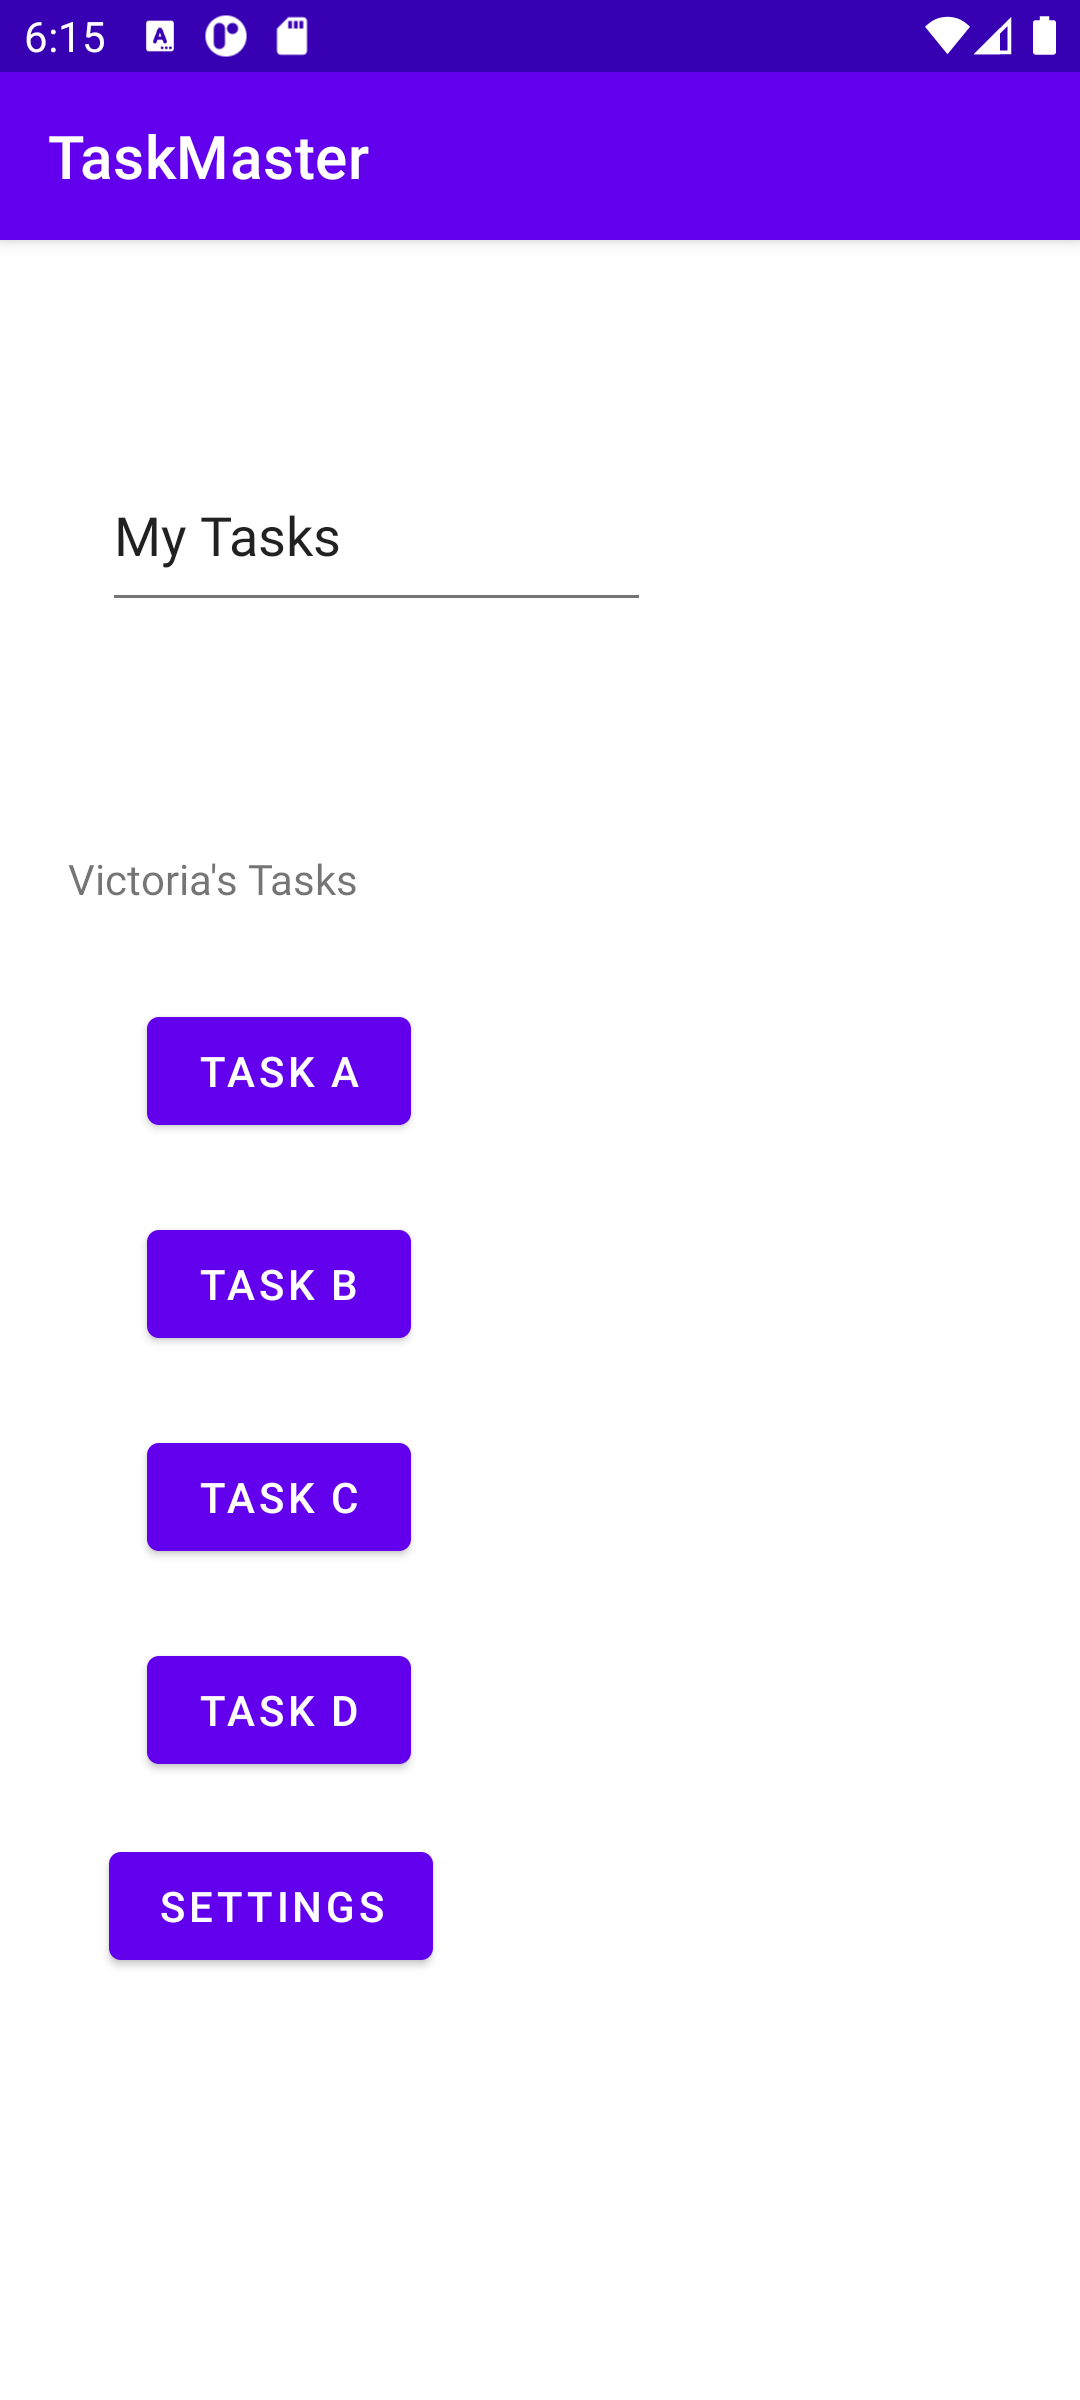
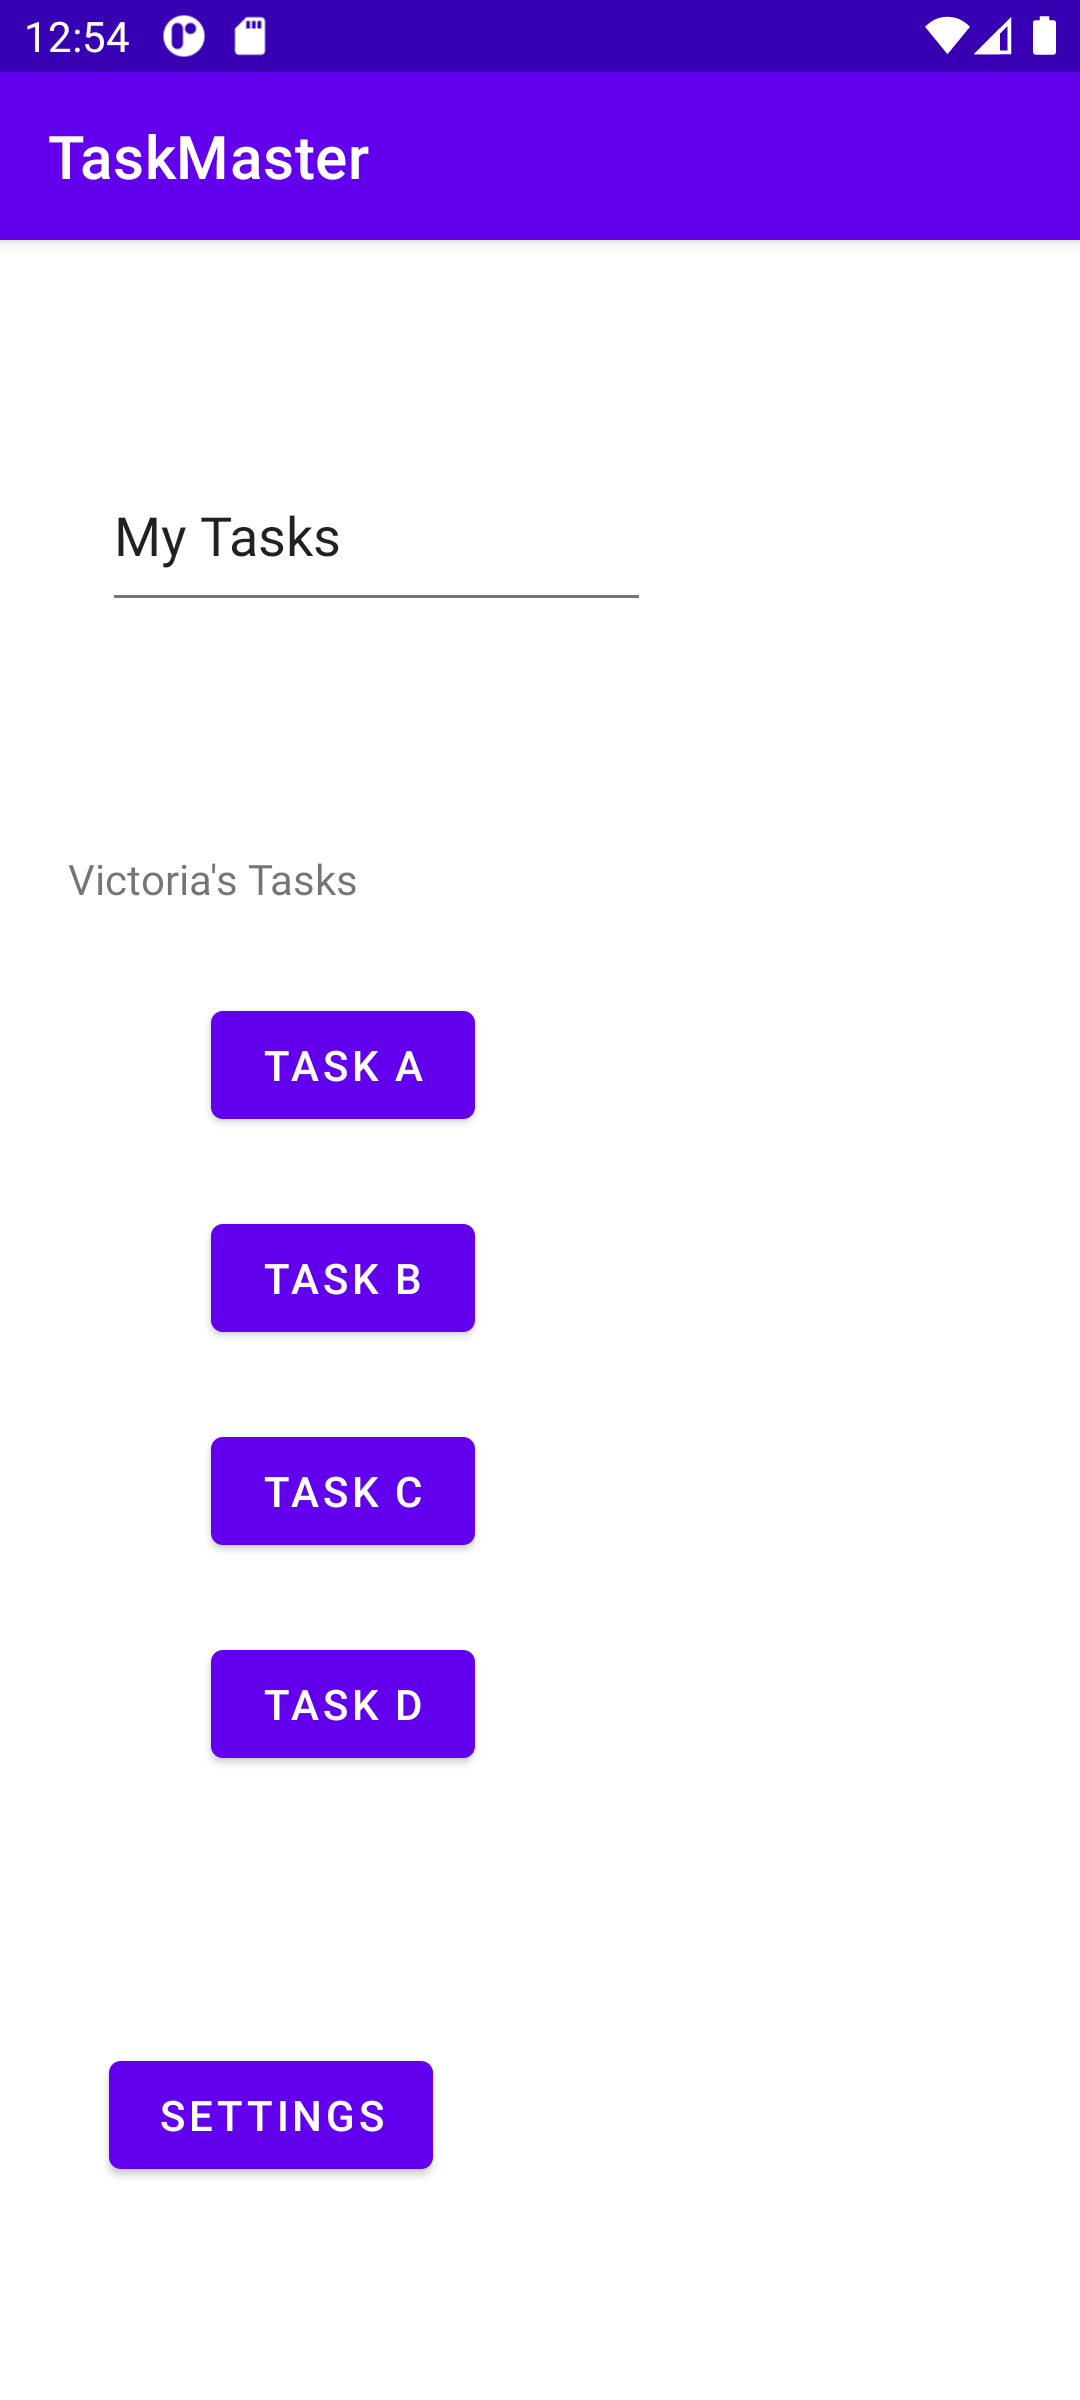
read me

diff --git a/README.md b/README.md
@@ -2,10 +2,19 @@
 
 ## Lab-28 - 31.Aug
 
-Add Recycler view to the home page and pass the data
+1. Add Recycler view to the home page to view multiple tasks as buttons
 
 ![one](./screenshots/28-1.png)
-![two](./screenshots/28-1x.png)
+
+2. When clicking on one of the tasks, it will navigate you to the detail task page and details for the clicked task will be viewd.
+
+When clicking on button Task A
+
+![two](./screenshots/28-2.png)
+
+When clicking on button Task C
+
+![three](./screenshots/28-3.png)
 
 ## Lab-27 - 30.Aug
 
